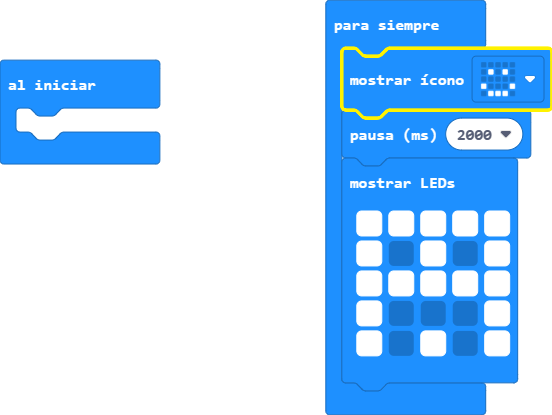
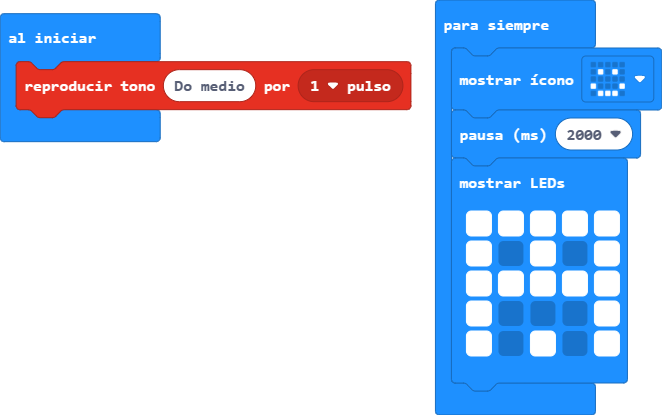
Actualizar pxt.json, main.blocks, main.ts

Changed region(s): [[0.0, 0.0, 1.0, 1.0], [0.8623, 0.9253, 0.9239, 1.0]]

diff --git a/main.ts b/main.ts
@@ -1,3 +1,4 @@
+music.playTone(262, music.beat(BeatFraction.Whole))
 basic.forever(function () {
     basic.showIcon(IconNames.Happy)
     basic.pause(2000)
